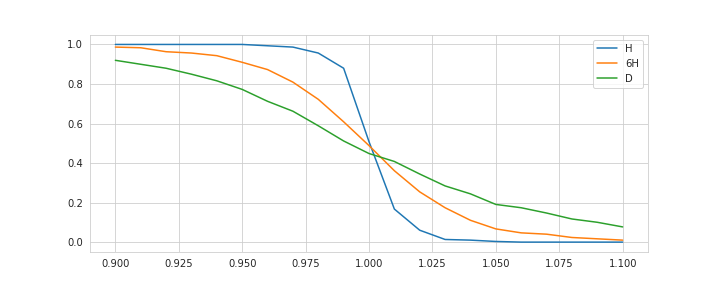
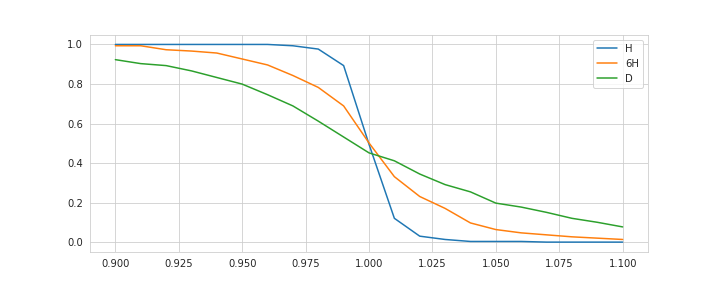
upd event lines init raios

diff --git a/projects/2021-07-06-event-simulator/event_lines.py b/projects/2021-07-06-event-simulator/event_lines.py
@@ -19,7 +19,7 @@ class EventLines:
     """
 
     dynamic_params = [
-        # dict(period=3600,  target_dynamics=1.00, liquidity_percent=0.01),
+        dict(period=3600,  target_dynamics=1.00, liquidity_percent=0.01),
         # dict(period=3600,  target_dynamics=0.99, liquidity_percent=0.02),
         # dict(period=3600,  target_dynamics=1.01, liquidity_percent=0.02),
         dict(period=21600, target_dynamics=1.00, liquidity_percent=0.01),
